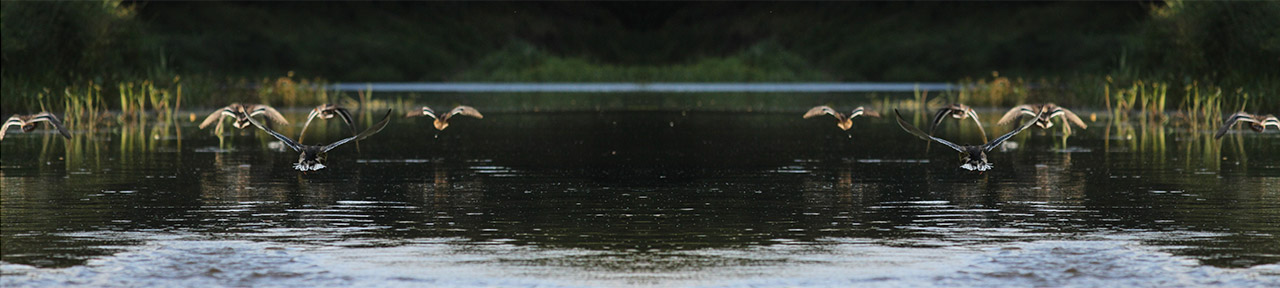
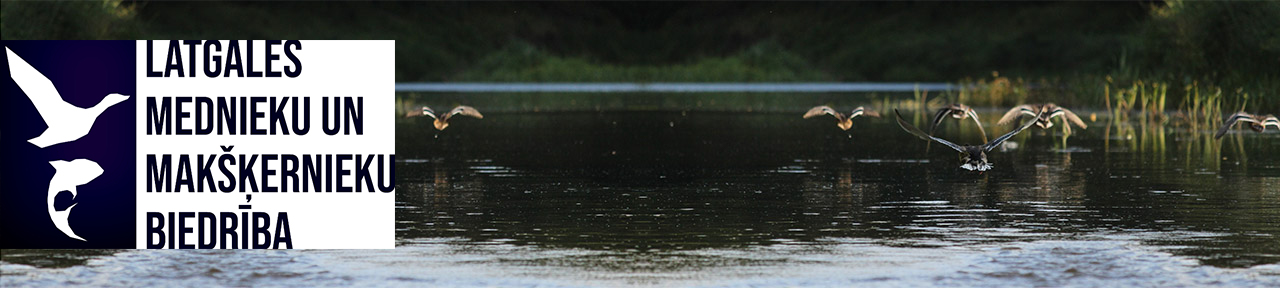
img

Changed region(s): [[0.0, 0.125, 0.3125, 0.875]]

diff --git a/css/style.css b/css/style.css
@@ -14,7 +14,9 @@ body {
 	background-image: url('../images/lmmbheader_web.jpg');
 	background-size: 100%;
 	background-repeat: no-repeat;
-	height: 240px;
+	height: 10%;
+	position: relative;
+	width: 100%;
 }
 
 p {

diff --git a/css/mobile.css b/css/mobile.css
@@ -3,7 +3,6 @@ body {
 	min-width: 0;
 }
 #header {
-	padding: 20px 0;
 	position: relative;
 	width: 100%;
 }
